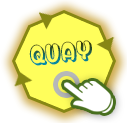
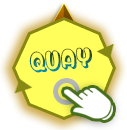
Next

diff --git a/web/Bootstrap/css/site.css b/web/Bootstrap/css/site.css
@@ -17,7 +17,6 @@ body{
 .box-header {
     position: relative;
 }
-
 .box-body {
     border-top-left-radius: 0;
     border-top-right-radius: 0;
@@ -120,6 +119,8 @@ body{
     padding: 10px;
     border-bottom-right-radius: 3px;
     border-bottom-left-radius: 3px;
+	max-height: 420px;
+    overflow-y: auto;
 }
 /*----------- MENU NAV-------------*/
 ul.menu > li.active a {
@@ -298,10 +299,12 @@ ul.menu > li{
     background-repeat: no-repeat;
 	position:absolute;
 	top:150px;
-	right:150px;
+	right:155px;
 	background-size: contain;
 	outline:none;
 }
+
+
 /*----------- THONG TIN-------------*/
 .custom-modal-content {
 	box-shadow:none;
@@ -419,6 +422,22 @@ ul.menu > li{
     top: 960;
     background-size: contain;
 }
+.custom-well .custom-form-control{
+	border-radius:0;
+} 
+.custom-well .modal-body{
+	padding:15px 0 0 0;
+}
+.custom-well .custom-control-label{
+	font-weight:normal;
+	padding-bottom:10px;
+}
+.custom-well .form-horizontal{
+	margin-bottom:0;
+}
+.custom-form-control1{
+	border-radius:0;
+}
 /*-----------END COMMENT-------------*/
 /*-----------GIAI THUONG-------------*/
 .custom-table-responsive .table-sp thead tr th{
@@ -529,7 +548,20 @@ ul.menu > li{
 }
 
 }
-@media screen and (max-width:1199px) {
+@media screen and (max-width:1199px) {	
+.custom-well .modal-body{
+	padding:0 0 20px 0;
+}
+.custom-well .form-right{
+	width:100%;
+}
+.custom-well .custom-control-label{
+	width:100%;
+	text-align:left;
+}
+.custom-well .custom-form-group{
+	margin-bottom:0;
+}
 .nav-tabs-custom .nav-tabs li:first-of-type{
     width: 36.5%;
 }
@@ -605,6 +637,13 @@ ul.menu > li{
 
 }
 @media screen and (max-width:767px) {
+.custom-well .modal-body{
+	padding:0 0 20px 0;
+}
+.custom-well .custom-control-label{
+	margin:0;
+	padding-top:10px;
+}
 .custom-table-responsive .table-sp thead,.custom-table-responsive .table-sp tbody{
 	font-size:15px;
 }

diff --git a/web/js/winwheel_1.2.js b/web/js/winwheel_1.2.js
@@ -128,8 +128,8 @@ function initialVariable(data,luckyDrawId)
 {
     //data = 'a,b,c,d,e,f,g,h';
     var arrPrizes = data.split(',');
-    prizes[0] = { "name": arrPrizes[0], "startAngle": 0, "endAngle": 44 };
-    for (var i = 1; i < arrPrizes.length; i++)
+    prizes[0] = { "name": arrPrizes[1], "startAngle": 0, "endAngle": 44 };
+    for (var i = 2; i < arrPrizes.length; i++)
     {
         prizes[i] = { "name": arrPrizes[i], "startAngle": 45 * i, "endAngle": 45 * i + 44 };
     }
@@ -143,7 +143,6 @@ function startSpin(determinedValue, luckyDrawId)
     resetWheel();
     if (determinedValue == 'undefined')
     {
-        console.log(determinedValue);
         var params = 'luckyDrawId=' + luckyDrawId;
         xhr.open('GET', determinedGetUrl + '?' + params, true);
         xhr.send("");

diff --git a/web/login-callback.php b/web/login-callback.php
@@ -65,6 +65,7 @@
     {
         //var_dump($ex);
     }
+    var_dump($_SESSION['facebook_access_token']);
     $itemList = '';
     $itemR = simplexml_load_file('http://fbapp.trathuong.com/ActionService.asmx/GetItemList?luckydrawId=401a0f70-cc1d-e511-941c-001c42aaff6e');
 	foreach($itemR->LuckyDrawItemModel as $item)
@@ -88,7 +89,7 @@
                                 <div class="col-xs-2 pull-right"><button type="button" class="btn btn_facebook"></button></div>
                                 <div class="col-xs-2 pull-right"><button type="button" class="btn btn_like"></button></div>
                             	<div class="col-xs-4 pull-right share">
-                                	<button type="button" class="btn btn_share">CHIA SẼ</button>
+                                    <a href="Shared.php" class="btn btn_share">CHIA SẼ</a>
                                 </div>                               
                             </div>
                             <!-- /.khong chia-->                                              
@@ -144,24 +145,28 @@
                                                           <label class="col-sm-3 control-label custom-control-label">Tên Bạn</label>
                                                           <div class="col-sm-9">
                                                             <input class="form-control custom-form-control" name="UserName" id="UserName" type="text" placeholder="Tên Bạn">
+                                                            <label style="display: none;color:red;" class="UserName_Err">Vui lòng nhập tên của bạn</label>
                                                           </div>
                                                         </div>
                                                         <div class="form-group custom-form-group">
                                                           <label class="col-sm-3 control-label custom-control-label">Ðiện thoại</label>
                                                           <div class="col-sm-9">
                                                             <input class="form-control custom-form-control" name="PhoneNumber" id="PhoneNumber" type="text" placeholder="Ðiện thoại">
+                                                            <label style="display: none;color:red;" class="PhoneNumber_Err">Vui lòng nhập SDT của bạn</label>
                                                           </div>
                                                         </div>
                                                         <div class="form-group custom-form-group">
                                                           <label class="col-sm-3 control-label custom-control-label">Email</label>
                                                           <div class="col-sm-9">
                                                             <input class="form-control custom-form-control" id="EmailAddress" name="EmailAddress" type="text" placeholder="Email">
+                                                            <label style="display: none;color:red;" class="EmailAddress_Err">Vui lòng nhập email của bạn</label>
                                                           </div>
                                                         </div>
                                                         <div class="form-group custom-form-group">
-                                                          <label class="col-sm-3 control-label custom-control-label">Giới tính</label>
+                                                          <label class="col-sm-3 control-label custom-control-label">Địa chỉ nhận thưởng</label>
                                                           <div class="col-sm-9">
-                                                            <textarea class="form-control custom-form-textarea" rows="5" id="Gender" name="Gender" placeholder="Giới tính"></textarea>
+                                                            <textarea class="form-control custom-form-textarea" rows="5" id="Address" name="Address" placeholder="Địa chỉ nhận thưởng"></textarea>
+                                                            <label style="display: none;color:red;" class="Address_Err">Vui lòng nhập địa chỉ của bạn</label>
                                                           </div>
                                                         </div>
                                                         <div class="pull-right">          
@@ -265,16 +270,10 @@
                 </div>
             </div>
         </div>
-        <input type="hidden" value="img/luckydrawab3.png" id="spinImagePath" />
+        <input type="hidden" value="Bootstrap/images/table_quay.png" id="spinImagePath" />
         <input type="hidden" value="<?php echo $itemList; ?>" id= "itemNameList" />
         <!-- dong khung -->
-        <!-- tao tung khung  -->
-        <div class="row">
-            <div class="bg-quay" >             	
-            	<div class="baloon">                	
-                </div>       
-            </div>                                 
-        </div>
+        
     <!-- Bootstrap core JavaScript
     ================================================== -->
     <!-- Placed at the end of the document so the pages load faster -->
@@ -285,32 +284,75 @@
     $(document).ready(function(){
         $('.btn_quay').click();
     });
+    var max_spin = 3;
     var lkdit = '401a0f70-cc1d-e511-941c-001c42aaff6e';
     var spinImagePath = $("#spinImagePath").val();
     begin(spinImagePath);
     var itemList = $('#itemNameList').val();
-    initialVariable(itemList, lkdit);
-    var username = $('#UserName').val();
-    var phoneNumber = $('#PhoneNumber').val();
-    var emailAddress = $('#EmailAddress').val();
     
+    initialVariable(itemList, lkdit);
+
     $('.spin-now').click(function(){
-         $.ajax({
-            type: 'GET',
-            url: 'save-infomation.php',
-            data: 'UserName=' + username + '&PhoneNumber=' + phoneNumber + '&EmailAddress=' + emailAddress,
-            success: function (response) {
-                console.log(response);
-                if (response == "1")
-                {
-                    $('.custom-close').click();
-                    startSpin('undefined', lkdit);
+        if(ValidationForm())
+        {
+            var username = $('#UserName').val();
+            var phoneNumber = $('#PhoneNumber').val();
+            var emailAddress = $('#EmailAddress').val();
+            $('.custom-close').click();
+            startSpin('undefined', lkdit);
+            $.ajax({
+                type: 'GET',
+                url: 'save-infomation.php',
+                data: 'UserName=' + username + '&PhoneNumber=' + phoneNumber + '&EmailAddress=' + emailAddress,
+                success: function (response) {
+                    if (response != "1"){ 
+                        alert("Bạn không thể thực hiện quay số vào lúc này");
+                    }
+                },
+                error: function () {
                 }
-            },
-            error: function () {
-            }
-        });
-        
+            });
+        }
+        else
+        {
+            return false;
+        }
     })
+    
+    function ValidationForm()
+    {
+        var isValid = true;
+        var username = $('#UserName').val();
+        var phoneNumber = $('#PhoneNumber').val();
+        var emailAddress = $('#EmailAddress').val();
+        if(username == '' || username == null)
+        {
+            $('.UserName_Err').show();
+            isValid = false;
+        }
+        else
+        {
+            $('.UserName_Err').hide();
+        }
+        if(phoneNumber == '' || phoneNumber == null)
+        {
+            $('.PhoneNumber_Err').show();
+            isValid = false;
+        }
+        else
+        {
+            $('.PhoneNumber_Err').hide();
+        }
+        if(emailAddress == '' || emailAddress == null)
+        {
+            $('.EmailAddress_Err').show();
+            isValid = false;
+        }
+        else
+        {
+            $('.EmailAddress_Err').hide();
+        }
+        return isValid;
+    }
 </script>
 </html>

diff --git a/web/save-infomation.php b/web/save-infomation.php
@@ -1,17 +1,20 @@
 <?php 
+    session_start();
     $userName = (isset($_REQUEST['UserName'])) ? $_REQUEST['UserName'] : "";
     $phoneNumber = (isset($_REQUEST['PhoneNumber'])) ? $_REQUEST['PhoneNumber'] : "";
     $emailAddress = (isset($_REQUEST['EmailAddress'])) ? $_REQUEST['EmailAddress'] : "";
     $address = (isset($_REQUEST['Address'])) ? $_REQUEST['Address'] : "";
     $gender = (isset($_REQUEST['Gender'])) ? $_REQUEST['Gender'] : "";
+  
     if($userName != "" && $phoneNumber != "" && $emailAddress != "")
     {
-        $itemR = simplexml_load_file('http://fbapp.trathuong.com/ActionService.asmx/GetItemList?luckydrawId=401a0f70-cc1d-e511-941c-001c42aaff6e&fullName=' . $userName . '&phoneNumber=' . $phoneNumber . '&emailAddress=' . $emailAddress . '&gender=' . $gender);
-        if($itemR)
-            echo "1";
-        else
-            echo "0";
-        return;
+        $luckydrawitemid = isset($_SESSION['ItemId']) ? $_SESSION['ItemId'] : '';
+        if($luckydrawitemid != '')
+        {
+            $itemR = simplexml_load_file('http://fbapp.trathuong.com/ActionService.asmx/AddHistory?luckyDrawItemId=' . $luckydrawitemid . '&fullName=' . $userName . '&phoneNumber=' . $phoneNumber . '&emailAddress=' . $emailAddress . '&gender=' . $gender);
+            echo ($itemR) ? "1" : "0";
+            return;
+        }
     }
     else
     {

diff --git a/web/getresult.php b/web/getresult.php
@@ -1,4 +1,13 @@
 <?php 
-    //$xml = simplexml_load_file('http://fbapp.trathuong.com/ActionService.asmx/GetLuckyDrawResult?luckydrawId=401a0f70-cc1d-e511-941c-001c42aaff6e');
-	echo rand(0, 360);
+    session_start();
+    $totalItem = 8;
+    $xml = file_get_contents('http://localhost:7749/LuckyDraw/GetItemSpin/?luckyDrawId=401a0f70-cc1d-e511-941c-001c42aaff6e');
+	$itemR = json_decode($xml);
+    
+    $itemRand = 360 / $totalItem;
+    $startVal = $itemRand * ($itemR->Order - 1);
+    $endVal = $itemRand * $itemR->Order;
+    $reponseVal = rand($startVal,$endVal);
+    $_SESSION['ItemId'] = $itemR->ID;
+    echo $reponseVal;
 ?>
